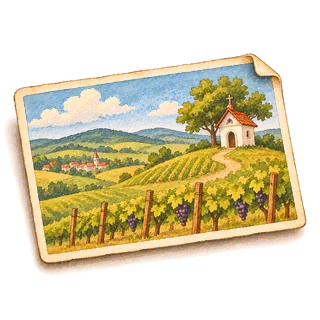
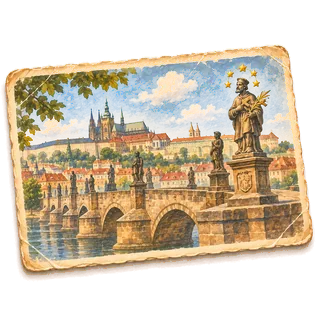
Jelení Hráz painted, Jánský Brod ferryman and postcard
Jelení Hráz: all images converted. The painted buildings sit higher than
the old medallion rows, so the sawmill man hung by the gamekeeper's lodge
and the gamekeeper's wife on the inn roof. The rows move up to the
buildings, the floating parcels follow them, the dam medallion sits on
the dam and watching the logs moves down to the canal above the weir.

Jánský Brod: the ferryman now sits on the bank bandaging his leg, as
the story says, and the daughter's postcard shows Charles Bridge with
St John of Nepomuk.

Claude-Session: https://claude.ai/code/session_01GNaERCVCMNxDha3AsCqcsP

diff --git a/obrazky_vstup/janskybrod/prompty.md b/obrazky_vstup/janskybrod/prompty.md
@@ -15,9 +15,9 @@ Obec je na trase 16. V. Postup je stejný jako u Lhotky a podrobně je popsaný 
 
 ## Soubory
 
-Vygeneruj (2): `prevoznik.png`, `dopis_dcera.png`
+Vygeneruj (0): nic, všechno je hotové
 
-Už máš vygenerované (9): `pozadi.png`, `drbna.png`, `koza.png`, `pecet.png`, `lod.png`, `socha.png`, `farar.png`, `sedlak.png`, `dcera.png`
+Už máš vygenerované (11): `pozadi.png`, `drbna.png`, `koza.png`, `pecet.png`, `prevoznik.png`, `lod.png`, `socha.png`, `farar.png`, `sedlak.png`, `dcera.png`, `dopis_dcera.png`
 
 Už jsou ve složce, zkopírované z jiných obcí (1): `dopis_prevoznik.png`
 

diff --git a/obrazky_vstup/jelenihraz/prompty.md b/obrazky_vstup/jelenihraz/prompty.md
@@ -14,7 +14,9 @@ Obec je na trase 12. V. Postup je stejný jako u Lhotky a podrobně je popsaný 
 
 ## Soubory
 
-Vygeneruj (10): `pozadi.png`, `hraz.png`, `kanal.png`, `pilar.png`, `hajna.png`, `hospodsky.png`, `vorar.png`, `list.png`, `truhla.png`, `sud.png`
+Vygeneruj (0): nic, všechno je hotové
+
+Už máš vygenerované (10): `pozadi.png`, `hraz.png`, `kanal.png`, `pilar.png`, `hajna.png`, `hospodsky.png`, `vorar.png`, `list.png`, `truhla.png`, `sud.png`
 
 Už jsou ve složce, zkopírované z jiných obcí (3): `avizo_pila.png`, `avizo_hajovna.png`, `avizo_ves.png`
 
